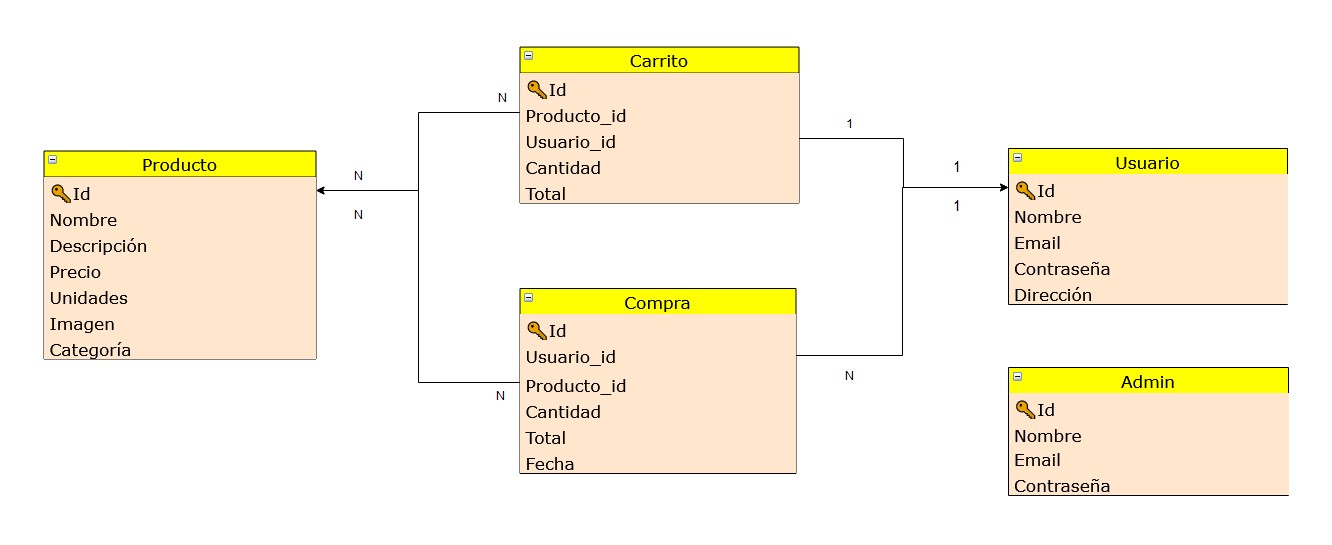
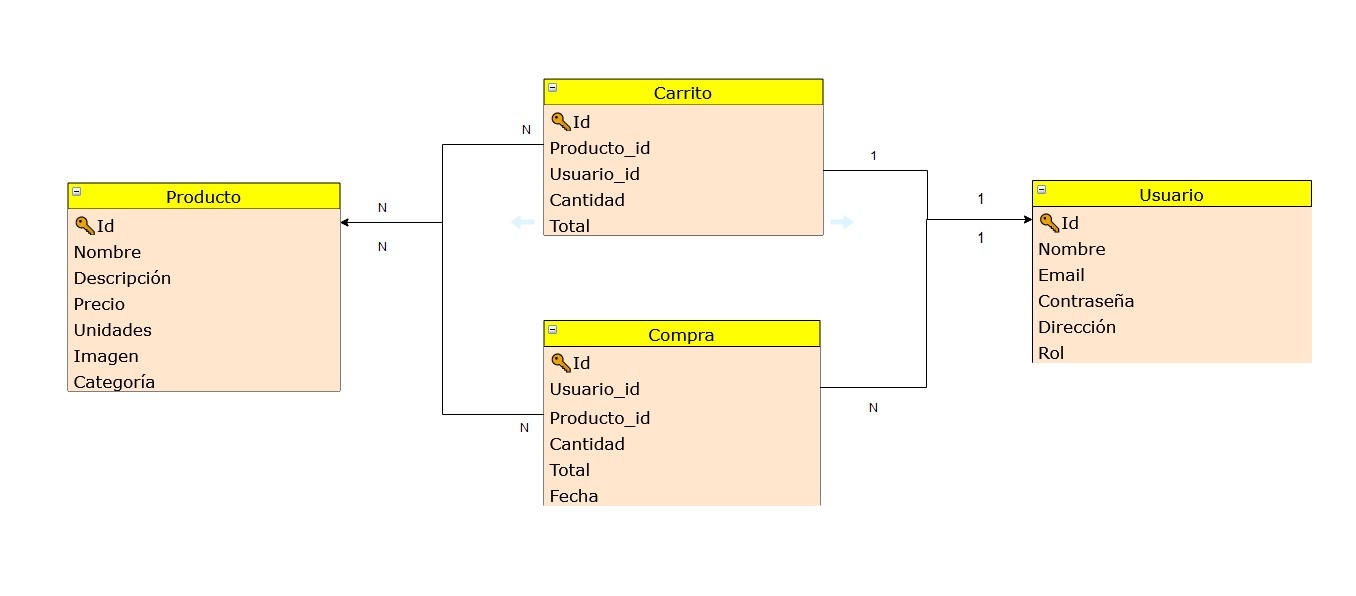
Cambiado modelo de usuario

diff --git a/doc/Diseño.md b/doc/Diseño.md
@@ -1,6 +1,6 @@
 # Keyng - Diseño
 #### Alexandru Alin Olaru, Darío Soto Montaña, Sergio Kossowski, Alexandar Svetlinov
-Versión 1.0
+Versión 1.1
 # Table of Contents
 1. [Justificación de la solución](diseño/justificacion.md)
 2. [Diseño Arquitectónico](diseño/arquitectura.md)
